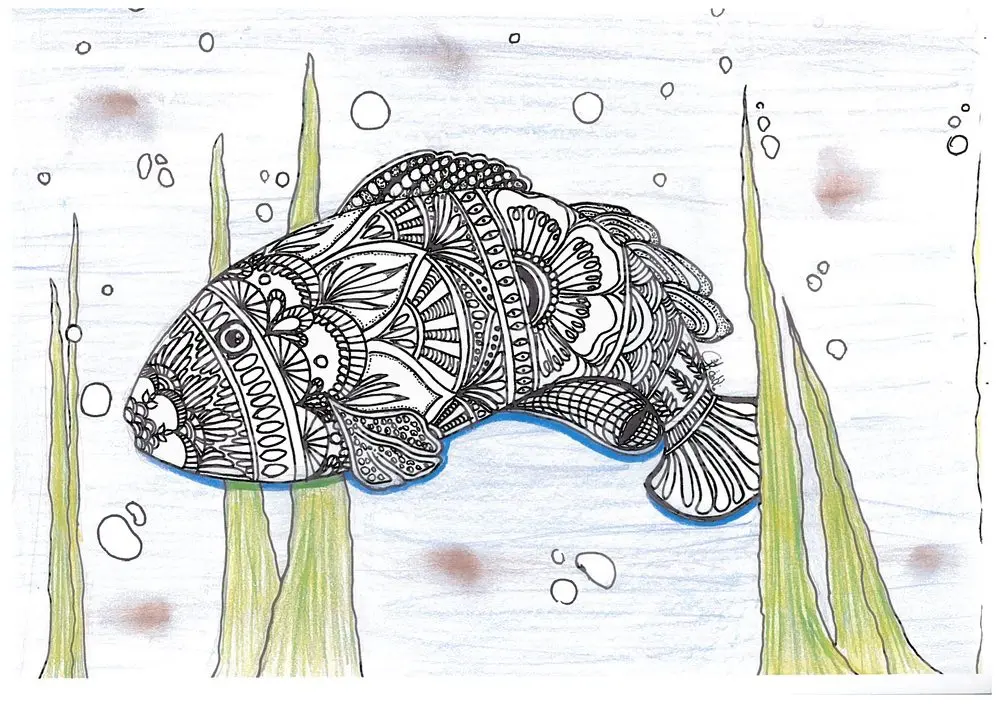
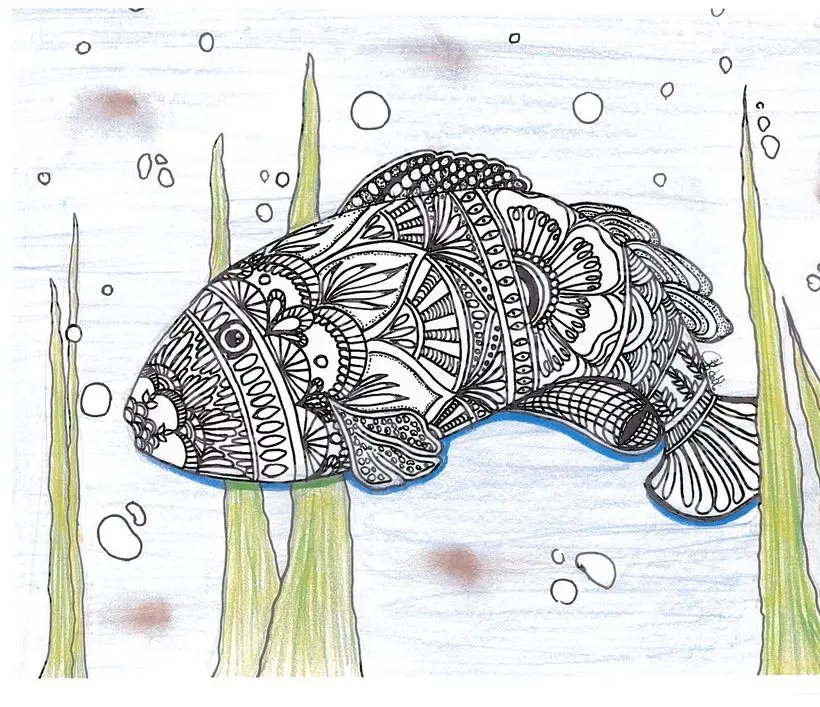
Tales of Qatari Heritage: camel left, fish centre (trimmed), Broken Promise right, equal gaps
Claude-Session: https://claude.ai/code/session_01BaT6a6VR8wXUtNSRAbm432

diff --git a/site/work/tales-of-qatari-heritage/index.html b/site/work/tales-of-qatari-heritage/index.html
@@ -10,7 +10,7 @@
 <link rel="preconnect" href="https://fonts.gstatic.com" crossorigin>
 <link rel="stylesheet" href="https://fonts.googleapis.com/css2?family=Jost:wght@400;500;600;700&amp;family=Noto+Naskh+Arabic:wght@400;600&amp;display=swap">
 <link rel="stylesheet" href="/css/tokens.css?v=0db3604d">
-<link rel="stylesheet" href="/css/site.css?v=e9682cb3">
+<link rel="stylesheet" href="/css/site.css?v=84bc6588">
 </head>
 <body>
 <a class="skip-link" href="#main">Skip to content</a>
@@ -46,7 +46,7 @@
       <div><dt class="label">Tools</dt><dd><ul class="chips"><li>Editing</li><li>Translation</li><li>Team leadership</li></ul></dd></div>
     </dl>
     <div class="cs-section showcase-head"><h2>Student artwork</h2></div><a class="shot cs-banner" href="/media/tales/falcon-strip.webp" target="_blank" rel="noopener"><div class="cs-banner-scroll"><img src="/media/tales/falcon-strip.webp" alt="Student artwork in five panels: a falconer among tents and camels, a man cradling a bird, a man shading his eyes in the desert, a man running toward a fallen falcon, and a falconer with his falcon." width="3920" height="476"></div><span>He Who Doesn’t Know the Falcon Roasts It</span></a>
-    <div class="showcase"><div class="feature-pair"><a class="shot" style="flex:1.414 1 0" href="/media/tales/fish-pattern.webp" target="_blank" rel="noopener"><img src="/media/tales/fish-pattern.webp" alt="Student artwork: a patterned black-and-white fish swimming among seaweed and bubbles." loading="lazy" width="1000" height="707"><span>You Reap What You Sow</span></a><a class="shot" style="flex:0.721 1 0" href="/media/tales/camel.webp" target="_blank" rel="noopener"><img src="/media/tales/camel.webp" alt="Student artwork: a rider on a camel silhouetted against an orange desert sky." loading="lazy" width="649" height="900"><span>Strength in Forgiveness</span></a><a class="shot" style="flex:1.000 1 0" href="/media/tales/broken-promise.webp" target="_blank" rel="noopener"><img src="/media/tales/broken-promise.webp" alt="Student artwork: a woman combs the long hair of a girl wearing a gold headpiece." loading="lazy" width="1000" height="1000"><span>The Broken Promise</span></a></div><p class="showcase-note">Original artwork by Qatar University Foundation Program students.</p></div>
+    <div class="showcase"><div class="feature-pair"><a class="shot" style="flex:0.721 1 0" href="/media/tales/camel.webp" target="_blank" rel="noopener"><img src="/media/tales/camel.webp" alt="Student artwork: a rider on a camel silhouetted against an orange desert sky." loading="lazy" width="649" height="900"><span>Strength in Forgiveness</span></a><a class="shot" style="flex:1.160 1 0" href="/media/tales/fish-pattern.webp" target="_blank" rel="noopener"><img src="/media/tales/fish-pattern.webp" alt="Student artwork: a patterned black-and-white fish swimming among seaweed and bubbles." loading="lazy" width="820" height="707"><span>You Reap What You Sow</span></a><a class="shot" style="flex:1.000 1 0" href="/media/tales/broken-promise.webp" target="_blank" rel="noopener"><img src="/media/tales/broken-promise.webp" alt="Student artwork: a woman combs the long hair of a girl wearing a gold headpiece." loading="lazy" width="1000" height="1000"><span>The Broken Promise</span></a></div><p class="showcase-note">Original artwork by Qatar University Foundation Program students.</p></div>
     <div class="cs-body cs-body-full">
       
       <div>

diff --git a/site/css/site.css b/site/css/site.css
@@ -989,3 +989,12 @@ a.shot.cs-banner { margin: 0 0 14px; }
 .showcase .feature-pair { margin-left: auto; margin-right: auto; justify-content: center; }
 .showcase .showcase-note { text-align: center; }
 .showcase .showcase-note { max-width: none; margin-left: auto; margin-right: auto; }
+
+/* Student artwork row: left / centre / right with equal gaps, same height */
+.showcase .feature-pair { max-width: none; justify-content: space-between; align-items: flex-start; }
+.showcase .feature-pair .shot { flex: none !important; }
+.showcase .feature-pair .shot img { height: 300px; width: auto; max-width: none; }
+@media (max-width: 760px) {
+  .showcase .feature-pair { flex-direction: column; align-items: stretch; }
+  .showcase .feature-pair .shot img { height: auto; width: 100%; }
+}

diff --git a/site/404.html b/site/404.html
@@ -10,7 +10,7 @@
 <link rel="preconnect" href="https://fonts.gstatic.com" crossorigin>
 <link rel="stylesheet" href="https://fonts.googleapis.com/css2?family=Jost:wght@400;500;600;700&amp;family=Noto+Naskh+Arabic:wght@400;600&amp;display=swap">
 <link rel="stylesheet" href="/css/tokens.css?v=0db3604d">
-<link rel="stylesheet" href="/css/site.css?v=e9682cb3">
+<link rel="stylesheet" href="/css/site.css?v=84bc6588">
 </head>
 <body>
 <a class="skip-link" href="#main">Skip to content</a>

diff --git a/site/ai-projects/index.html b/site/ai-projects/index.html
@@ -10,7 +10,7 @@
 <link rel="preconnect" href="https://fonts.gstatic.com" crossorigin>
 <link rel="stylesheet" href="https://fonts.googleapis.com/css2?family=Jost:wght@400;500;600;700&amp;family=Noto+Naskh+Arabic:wght@400;600&amp;display=swap">
 <link rel="stylesheet" href="/css/tokens.css?v=0db3604d">
-<link rel="stylesheet" href="/css/site.css?v=e9682cb3">
+<link rel="stylesheet" href="/css/site.css?v=84bc6588">
 </head>
 <body>
 <a class="skip-link" href="#main">Skip to content</a>

diff --git a/site/contact/index.html b/site/contact/index.html
@@ -10,7 +10,7 @@
 <link rel="preconnect" href="https://fonts.gstatic.com" crossorigin>
 <link rel="stylesheet" href="https://fonts.googleapis.com/css2?family=Jost:wght@400;500;600;700&amp;family=Noto+Naskh+Arabic:wght@400;600&amp;display=swap">
 <link rel="stylesheet" href="/css/tokens.css?v=0db3604d">
-<link rel="stylesheet" href="/css/site.css?v=e9682cb3">
+<link rel="stylesheet" href="/css/site.css?v=84bc6588">
 </head>
 <body>
 <a class="skip-link" href="#main">Skip to content</a>

diff --git a/site/cultural-projects/index.html b/site/cultural-projects/index.html
@@ -10,7 +10,7 @@
 <link rel="preconnect" href="https://fonts.gstatic.com" crossorigin>
 <link rel="stylesheet" href="https://fonts.googleapis.com/css2?family=Jost:wght@400;500;600;700&amp;family=Noto+Naskh+Arabic:wght@400;600&amp;display=swap">
 <link rel="stylesheet" href="/css/tokens.css?v=0db3604d">
-<link rel="stylesheet" href="/css/site.css?v=e9682cb3">
+<link rel="stylesheet" href="/css/site.css?v=84bc6588">
 </head>
 <body>
 <a class="skip-link" href="#main">Skip to content</a>

diff --git a/site/index.html b/site/index.html
@@ -10,7 +10,7 @@
 <link rel="preconnect" href="https://fonts.gstatic.com" crossorigin>
 <link rel="stylesheet" href="https://fonts.googleapis.com/css2?family=Jost:wght@400;500;600;700&amp;family=Noto+Naskh+Arabic:wght@400;600&amp;display=swap">
 <link rel="stylesheet" href="/css/tokens.css?v=0db3604d">
-<link rel="stylesheet" href="/css/site.css?v=e9682cb3">
+<link rel="stylesheet" href="/css/site.css?v=84bc6588">
 </head>
 <body>
 <a class="skip-link" href="#main">Skip to content</a>

diff --git a/site/instructional-design/index.html b/site/instructional-design/index.html
@@ -10,7 +10,7 @@
 <link rel="preconnect" href="https://fonts.gstatic.com" crossorigin>
 <link rel="stylesheet" href="https://fonts.googleapis.com/css2?family=Jost:wght@400;500;600;700&amp;family=Noto+Naskh+Arabic:wght@400;600&amp;display=swap">
 <link rel="stylesheet" href="/css/tokens.css?v=0db3604d">
-<link rel="stylesheet" href="/css/site.css?v=e9682cb3">
+<link rel="stylesheet" href="/css/site.css?v=84bc6588">
 </head>
 <body>
 <a class="skip-link" href="#main">Skip to content</a>

diff --git a/site/studio/index.html b/site/studio/index.html
@@ -10,7 +10,7 @@
 <link rel="preconnect" href="https://fonts.gstatic.com" crossorigin>
 <link rel="stylesheet" href="https://fonts.googleapis.com/css2?family=Jost:wght@400;500;600;700&amp;family=Noto+Naskh+Arabic:wght@400;600&amp;display=swap">
 <link rel="stylesheet" href="/css/tokens.css?v=0db3604d">
-<link rel="stylesheet" href="/css/site.css?v=e9682cb3">
+<link rel="stylesheet" href="/css/site.css?v=84bc6588">
 </head>
 <body>
 <a class="skip-link" href="#main">Skip to content</a>

diff --git a/site/teaching/index.html b/site/teaching/index.html
@@ -10,7 +10,7 @@
 <link rel="preconnect" href="https://fonts.gstatic.com" crossorigin>
 <link rel="stylesheet" href="https://fonts.googleapis.com/css2?family=Jost:wght@400;500;600;700&amp;family=Noto+Naskh+Arabic:wght@400;600&amp;display=swap">
 <link rel="stylesheet" href="/css/tokens.css?v=0db3604d">
-<link rel="stylesheet" href="/css/site.css?v=e9682cb3">
+<link rel="stylesheet" href="/css/site.css?v=84bc6588">
 </head>
 <body>
 <a class="skip-link" href="#main">Skip to content</a>

diff --git a/site/work/english-21st-century/index.html b/site/work/english-21st-century/index.html
@@ -10,7 +10,7 @@
 <link rel="preconnect" href="https://fonts.gstatic.com" crossorigin>
 <link rel="stylesheet" href="https://fonts.googleapis.com/css2?family=Jost:wght@400;500;600;700&amp;family=Noto+Naskh+Arabic:wght@400;600&amp;display=swap">
 <link rel="stylesheet" href="/css/tokens.css?v=0db3604d">
-<link rel="stylesheet" href="/css/site.css?v=e9682cb3">
+<link rel="stylesheet" href="/css/site.css?v=84bc6588">
 </head>
 <body>
 <a class="skip-link" href="#main">Skip to content</a>

diff --git a/site/work/falcon-folktale/index.html b/site/work/falcon-folktale/index.html
@@ -10,7 +10,7 @@
 <link rel="preconnect" href="https://fonts.gstatic.com" crossorigin>
 <link rel="stylesheet" href="https://fonts.googleapis.com/css2?family=Jost:wght@400;500;600;700&amp;family=Noto+Naskh+Arabic:wght@400;600&amp;display=swap">
 <link rel="stylesheet" href="/css/tokens.css?v=0db3604d">
-<link rel="stylesheet" href="/css/site.css?v=e9682cb3">
+<link rel="stylesheet" href="/css/site.css?v=84bc6588">
 </head>
 <body>
 <a class="skip-link" href="#main">Skip to content</a>
